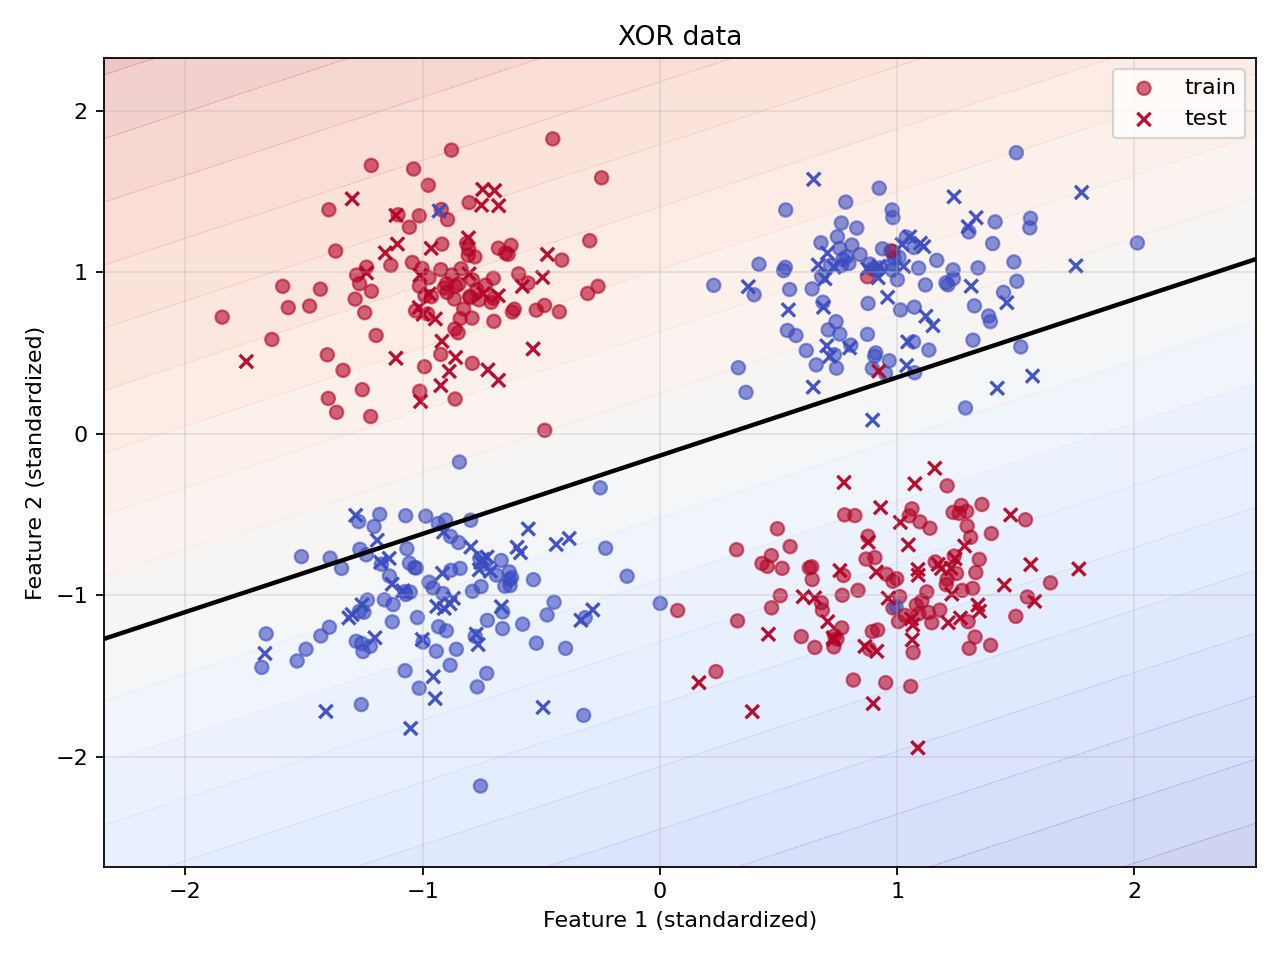
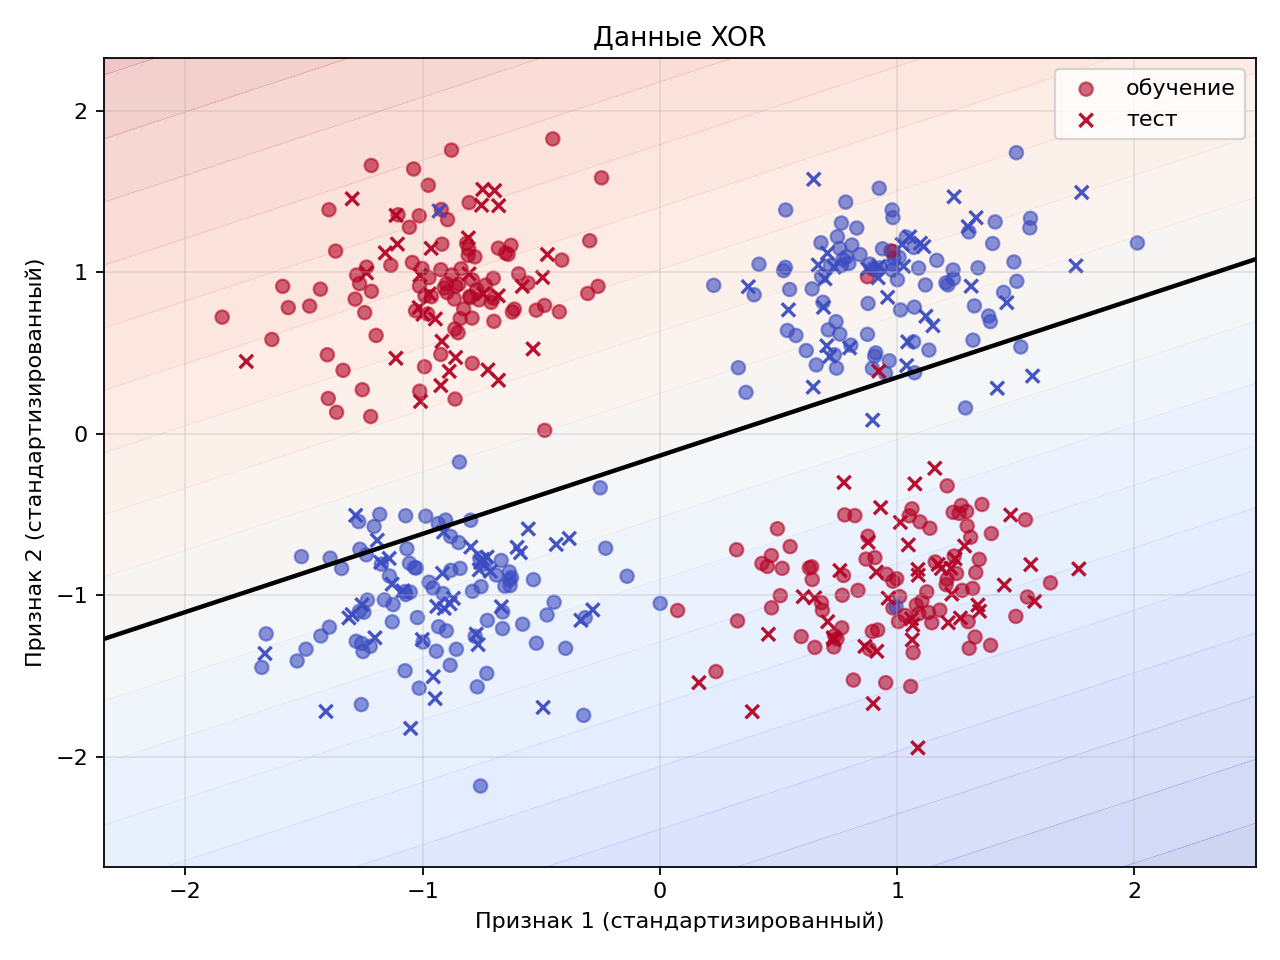
Русские подписи графиков

diff --git a/visualization.py b/visualization.py
@@ -2,15 +2,62 @@ import matplotlib.pyplot as plt
 import numpy as np
 
 
+def translate_title(title):
+    titles = {
+        "Base training loss": "Потери при базовом обучении",
+        "Learning rate experiment": "Влияние скорости обучения",
+        "Epoch count experiment": "Влияние количества эпох",
+        "Batch size experiment": "Влияние размера батча",
+        "Initialization experiment": "Влияние инициализации весов",
+        "Custom data generator experiment": "Эксперимент с собственными данными",
+        "Cross-entropy and hinge loss": "Сравнение cross-entropy и hinge loss",
+        "L2 regularization loss": "Потери при L2-регуляризации",
+        "Weight norm and L2 regularization": "Норма весов при L2-регуляризации",
+        "Weights and L2 regularization": "Веса при L2-регуляризации",
+        "Accuracy and L2 regularization": "Точность при L2-регуляризации",
+        "SGD and momentum loss": "Сравнение SGD и momentum",
+        "Best CV model loss": "Потери лучшей модели после кросс-валидации",
+        "5-fold cross-validation": "5-кратная кросс-валидация",
+        "ROC curve": "ROC-кривая",
+        "Misclassified test points": "Ошибочные точки тестовой выборки",
+        "Decision boundary": "Разделяющая граница",
+        "Linear Gaussian clouds": "Линейно разделимые облака",
+        "XOR data": "Данные XOR",
+        "Circle data": "Данные окружности",
+    }
+    return titles.get(title, title)
+
+
+def translate_label(label):
+    labels = {
+        "train": "обучение",
+        "test": "тест",
+        "random": "случайная модель",
+        "correct": "верно",
+        "wrong": "ошибка",
+        "boundary": "граница",
+        "value": "значение",
+        "weight_norm": "норма весов",
+        "weight_1": "вес 1",
+        "weight_2": "вес 2",
+        "train_accuracy": "точность на обучении",
+        "test_accuracy": "точность на тесте",
+        "accuracy": "точность",
+        "weight value": "значение веса",
+    }
+    return labels.get(label, label)
+
+
+# график изменения функции потерь
 def plot_loss(history_items, title, path):
     plt.figure(figsize=(9, 6))
     for label, train_losses, val_losses in history_items:
         epochs = np.arange(1, len(train_losses) + 1)
-        plt.plot(epochs, train_losses, label=f"{label}: train")
-        plt.plot(epochs, val_losses, linestyle="--", label=f"{label}: test")
-    plt.xlabel("Epoch")
-    plt.ylabel("Binary cross-entropy")
-    plt.title(title)
+        plt.plot(epochs, train_losses, label=f"{label}: обучение")
+        plt.plot(epochs, val_losses, linestyle="--", label=f"{label}: тест")
+    plt.xlabel("Эпоха")
+    plt.ylabel("Значение функции потерь")
+    plt.title(translate_title(title))
     plt.grid(True, alpha=0.3)
     plt.legend()
     plt.tight_layout()
@@ -18,9 +65,10 @@ def plot_loss(history_items, title, path):
     plt.close()
 
 
+# график разделяющей прямой для базовой модели
 def plot_decision_boundary(model, X_train, y_train, X_test, y_test, path):
     plt.figure(figsize=(8, 6))
-    plt.scatter(X_train[:, 0], X_train[:, 1], c=y_train, cmap="coolwarm", alpha=0.65, label="train")
+    plt.scatter(X_train[:, 0], X_train[:, 1], c=y_train, cmap="coolwarm", alpha=0.65, label="обучение")
     plt.scatter(
         X_test[:, 0],
         X_test[:, 1],
@@ -28,7 +76,7 @@ def plot_decision_boundary(model, X_train, y_train, X_test, y_test, path):
         cmap="coolwarm",
         alpha=0.95,
         marker="x",
-        label="test",
+        label="тест",
     )
 
     x_min, x_max = X_train[:, 0].min() - 0.5, X_train[:, 0].max() + 0.5
@@ -36,14 +84,14 @@ def plot_decision_boundary(model, X_train, y_train, X_test, y_test, path):
 
     if abs(model.w[1]) > 1e-12:
         ys = -(model.w[0] * xs + model.b) / model.w[1]
-        plt.plot(xs, ys, color="black", linewidth=2, label="w^T x + b = 0")
+        plt.plot(xs, ys, color="black", linewidth=2, label="граница w^T x + b = 0")
     else:
         x_line = -model.b / model.w[0]
-        plt.axvline(x_line, color="black", linewidth=2, label="w^T x + b = 0")
+        plt.axvline(x_line, color="black", linewidth=2, label="граница w^T x + b = 0")
 
-    plt.xlabel("Feature 1 (standardized)")
-    plt.ylabel("Feature 2 (standardized)")
-    plt.title("Decision boundary")
+    plt.xlabel("Признак 1 (стандартизированный)")
+    plt.ylabel("Признак 2 (стандартизированный)")
+    plt.title("Разделяющая граница")
     plt.grid(True, alpha=0.3)
     plt.legend()
     plt.tight_layout()
@@ -51,6 +99,7 @@ def plot_decision_boundary(model, X_train, y_train, X_test, y_test, path):
     plt.close()
 
 
+# график границы для своих синтетических данных
 def plot_dataset_decision_boundary(model, X_train, y_train, X_test, y_test, title, path):
     plt.figure(figsize=(8, 6))
 
@@ -65,7 +114,7 @@ def plot_dataset_decision_boundary(model, X_train, y_train, X_test, y_test, titl
 
     plt.contourf(xx, yy, probabilities, levels=20, cmap="coolwarm", alpha=0.25)
     plt.contour(xx, yy, probabilities, levels=[0.5], colors="black", linewidths=2)
-    plt.scatter(X_train[:, 0], X_train[:, 1], c=y_train, cmap="coolwarm", alpha=0.6, label="train")
+    plt.scatter(X_train[:, 0], X_train[:, 1], c=y_train, cmap="coolwarm", alpha=0.6, label="обучение")
     plt.scatter(
         X_test[:, 0],
         X_test[:, 1],
@@ -73,12 +122,12 @@ def plot_dataset_decision_boundary(model, X_train, y_train, X_test, y_test, titl
         cmap="coolwarm",
         alpha=0.95,
         marker="x",
-        label="test",
+        label="тест",
     )
 
-    plt.xlabel("Feature 1 (standardized)")
-    plt.ylabel("Feature 2 (standardized)")
-    plt.title(title)
+    plt.xlabel("Признак 1 (стандартизированный)")
+    plt.ylabel("Признак 2 (стандартизированный)")
+    plt.title(translate_title(title))
     plt.grid(True, alpha=0.3)
     plt.legend()
     plt.tight_layout()
@@ -86,17 +135,18 @@ def plot_dataset_decision_boundary(model, X_train, y_train, X_test, y_test, titl
     plt.close()
 
 
+# график обычной метрики по разным параметрам
 def plot_metric(rows, x_key, y_keys, title, path, x_label=None, y_label=None):
     plt.figure(figsize=(8, 6))
     x_values = [row[x_key] for row in rows]
 
     for y_key in y_keys:
         y_values = [row[y_key] for row in rows]
-        plt.plot(x_values, y_values, marker="o", label=y_key)
+        plt.plot(x_values, y_values, marker="o", label=translate_label(y_key))
 
     plt.xlabel(x_label or x_key)
-    plt.ylabel(y_label or "value")
-    plt.title(title)
+    plt.ylabel(translate_label(y_label or "value"))
+    plt.title(translate_title(title))
     plt.grid(True, alpha=0.3)
     plt.legend()
     plt.tight_layout()
@@ -105,6 +155,7 @@ def plot_metric(rows, x_key, y_keys, title, path, x_label=None, y_label=None):
 
 
 # Доп 3
+# график ROC-кривой
 def plot_roc_curve(roc_points, auc_value, path):
     sorted_points = sorted(roc_points, key=lambda point: point[0])
     fpr = [point[0] for point in sorted_points]
@@ -112,10 +163,10 @@ def plot_roc_curve(roc_points, auc_value, path):
 
     plt.figure(figsize=(7, 6))
     plt.plot(fpr, tpr, linewidth=2, label=f"ROC-AUC = {auc_value:.4f}")
-    plt.plot([0, 1], [0, 1], linestyle="--", color="gray", label="random")
-    plt.xlabel("False positive rate")
-    plt.ylabel("True positive rate")
-    plt.title("ROC curve")
+    plt.plot([0, 1], [0, 1], linestyle="--", color="gray", label="случайная модель")
+    plt.xlabel("False Positive Rate")
+    plt.ylabel("True Positive Rate")
+    plt.title("ROC-кривая")
     plt.grid(True, alpha=0.3)
     plt.legend()
     plt.tight_layout()
@@ -123,6 +174,7 @@ def plot_roc_curve(roc_points, auc_value, path):
     plt.close()
 
 
+# график ошибочно классифицированных точек
 def plot_misclassified_points(model, X_test, y_test, y_pred, path):
     errors = y_test != y_pred
 
@@ -133,7 +185,7 @@ def plot_misclassified_points(model, X_test, y_test, y_pred, path):
         c=y_test[~errors],
         cmap="coolwarm",
         alpha=0.55,
-        label="correct",
+        label="верно",
     )
     plt.scatter(
         X_test[errors, 0],
@@ -144,7 +196,7 @@ def plot_misclassified_points(model, X_test, y_test, y_pred, path):
         linewidths=1.4,
         marker="X",
         s=95,
-        label="wrong",
+        label="ошибка",
     )
 
     x_min, x_max = X_test[:, 0].min() - 0.5, X_test[:, 0].max() + 0.5
@@ -152,14 +204,14 @@ def plot_misclassified_points(model, X_test, y_test, y_pred, path):
 
     if abs(model.w[1]) > 1e-12:
         ys = -(model.w[0] * xs + model.b) / model.w[1]
-        plt.plot(xs, ys, color="black", linewidth=2, label="boundary")
+        plt.plot(xs, ys, color="black", linewidth=2, label="граница")
     else:
         x_line = -model.b / model.w[0]
-        plt.axvline(x_line, color="black", linewidth=2, label="boundary")
+        plt.axvline(x_line, color="black", linewidth=2, label="граница")
 
-    plt.xlabel("Feature 1 (standardized)")
-    plt.ylabel("Feature 2 (standardized)")
-    plt.title("Misclassified test points")
+    plt.xlabel("Признак 1 (стандартизированный)")
+    plt.ylabel("Признак 2 (стандартизированный)")
+    plt.title("Ошибочные точки тестовой выборки")
     plt.grid(True, alpha=0.3)
     plt.legend()
     plt.tight_layout()
@@ -168,6 +220,7 @@ def plot_misclassified_points(model, X_test, y_test, y_pred, path):
 
 
 # Доп 5
+# график результатов кросс-валидации
 def plot_cv_results(rows, path):
     plt.figure(figsize=(9, 6))
     batch_sizes = sorted({row["batch_size"] for row in rows})
@@ -178,12 +231,12 @@ def plot_cv_results(rows, path):
         learning_rates = [row["learning_rate"] for row in batch_rows]
         mean_scores = [row["mean_accuracy"] for row in batch_rows]
         std_scores = [row["std_accuracy"] for row in batch_rows]
-        plt.errorbar(learning_rates, mean_scores, yerr=std_scores, marker="o", capsize=4, label=f"batch={batch_size}")
+        plt.errorbar(learning_rates, mean_scores, yerr=std_scores, marker="o", capsize=4, label=f"батч={batch_size}")
 
     plt.xscale("log")
-    plt.xlabel("Learning rate")
-    plt.ylabel("Mean CV accuracy")
-    plt.title("5-fold cross-validation")
+    plt.xlabel("Скорость обучения")
+    plt.ylabel("Средняя accuracy на CV")
+    plt.title("5-кратная кросс-валидация")
     plt.grid(True, alpha=0.3)
     plt.legend()
     plt.tight_layout()
